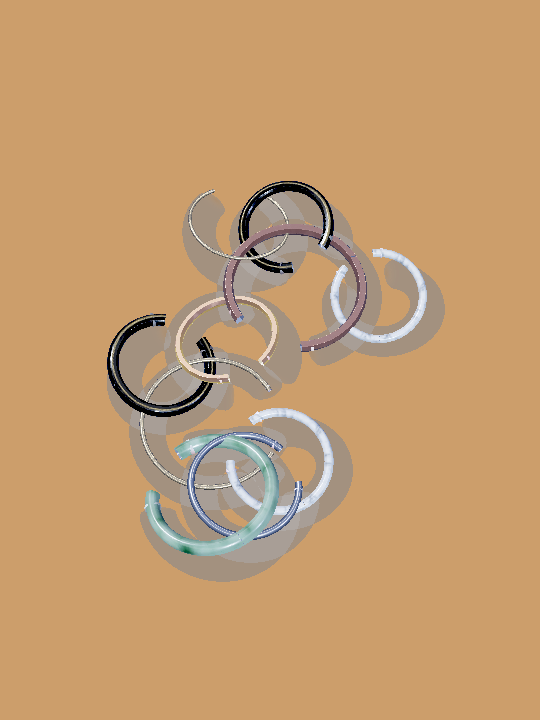
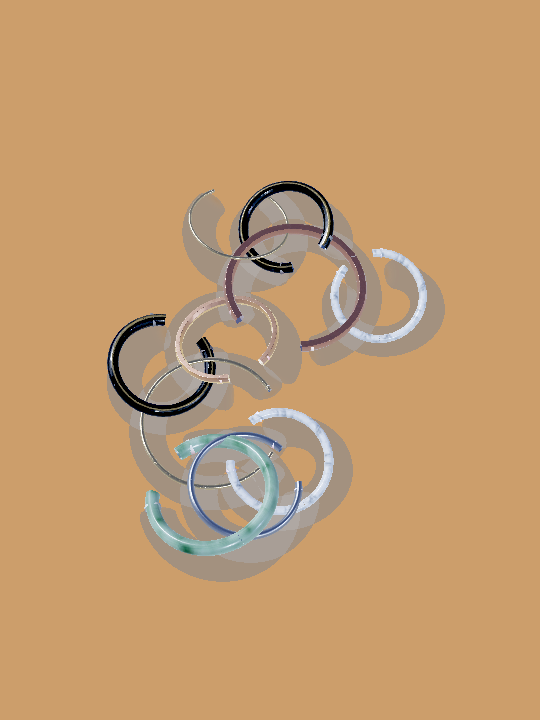
Image-based lighting for the rings: per-world prefiltered HDR environments (v1.1.5)
- make_env_maps.py: procedural HDR studio per world, GGX prefilter (6 levels) + irradiance, stacked equirect atlas
- GLBRING_FS: diffuse irradiance + prefiltered specular with split-sum BRDF; direct lights rebalanced
- renderer/packer/headless renderer load and bind the atlases

Claude-Session: https://claude.ai/code/session_01UVtWuVMRXKuxhqo9e5aBGr

diff --git a/app/src/main/java/com/shiostudios/dumplingrings/ui/board3d/Shaders.kt b/app/src/main/java/com/shiostudios/dumplingrings/ui/board3d/Shaders.kt
@@ -138,18 +138,21 @@ uniform float uCapRad;                            // dome length in radians: gap
 out vec4 fragColor;
 float ggx(vec3 n, vec3 h, float a) { float a2 = a * a; float ndh = max(dot(n, h), 0.0); float d = ndh * ndh * (a2 - 1.0) + 1.0; return a2 / (3.14159 * d * d + 1e-5); }
 float geo(float ndv, float ndl, float a) { float k = (a + 1.0) * (a + 1.0) / 8.0; return (ndv / (ndv * (1.0 - k) + k)) * (ndl / (ndl * (1.0 - k) + k)); }
-vec3 env(vec3 d, float rough) {
-  // studio environment: warm sky/ground gradient, a soft window reflection band and the key light as a bright blob
-  float up = d.z * 0.5 + 0.5;
-  vec3 e = mix(uAmbientGround * 1.4, uAmbientSky * 1.6, up);
-  // softbox window: a sharp bright band for lustre on polished surfaces, broad on rough ones
-  float band = smoothstep(0.42, 0.52, d.z) * (1.0 - smoothstep(0.66, 0.80, d.z));
-  e += band * vec3(1.0, 0.98, 0.95) * mix(1.6, 0.4, rough);
-  float sun = pow(max(dot(d, normalize(uKeyDir)), 0.0), mix(90.0, 8.0, rough));
-  e += sun * uKeyCol * 1.8;
-  float rimGlow = pow(max(dot(d, normalize(uRimDir)), 0.0), mix(40.0, 6.0, rough));
-  e += rimGlow * uRimCol * 0.9;
-  return e;
+// --- image-based lighting: per-world HDR studio environment, GGX-prefiltered at 6 roughness levels + cosine irradiance (row 6),
+// stacked equirect atlas (7 rows), gamma range encoding hdr = (tex ^ 2.4) * 16  (tools/asset_generate/make_env_maps.py)
+uniform sampler2D uEnv;
+vec2 equirect(vec3 d) { return vec2(atan(d.y, d.x) / 6.2831853 + 0.5, acos(clamp(d.z, -1.0, 1.0)) / 3.14159265); }
+vec3 envRow(vec2 uv, float row) { uv.y = (clamp(uv.y, 0.004, 0.996) + row) / 7.0; return pow(texture(uEnv, uv).rgb, vec3(2.4)) * 16.0; }
+vec3 envSpecular(vec3 d, float rough) {
+  float lv = clamp(rough, 0.0, 1.0) * 5.0; float l0 = floor(lv); float l1 = min(l0 + 1.0, 5.0);
+  vec2 uv = equirect(d); return mix(envRow(uv, l0), envRow(uv, l1), lv - l0);
+}
+vec3 envIrradiance(vec3 n) { return envRow(equirect(n), 6.0); }
+// split-sum environment BRDF (Karis' analytic fit): returns F0 * x + y
+vec2 envBrdf(float rough, float ndv) {
+  vec4 c0 = vec4(-1.0, -0.0275, -0.572, 0.022); vec4 c1 = vec4(1.0, 0.0425, 1.04, -0.04);
+  vec4 rr = rough * c0 + c1; float a004 = min(rr.x * rr.x, exp2(-9.28 * ndv)) * rr.x + rr.y;
+  return vec2(-1.04, 1.04) * a004 + rr.zw;
 }
 void main() {
   // gap cut (local angle): fragment inside any gap, widened by the dome length, is discarded (the domed caps cover the edges)
@@ -176,7 +179,8 @@ void main() {
   vec3 F0 = mix(vec3(0.04), albedo, metal);
   vec3 diffCol = albedo * (1.0 - metal);
   float a = rough * rough;
-  vec3 col = diffCol * mix(uAmbientGround, uAmbientSky, n.z * 0.5 + 0.5) * 0.35;
+  // diffuse from the irradiance map (what Uncharted-style artefact viewers do), specular from the prefiltered environment
+  vec3 col = diffCol * envIrradiance(n) * 0.9;
   vec3 lights[3]; vec3 lcols[3]; lights[0] = uKeyDir; lcols[0] = uKeyCol; lights[1] = uFillDir; lcols[1] = uFillCol; lights[2] = uRimDir; lcols[2] = uRimCol;
   for (int i = 0; i < 3; i++) {
     vec3 l = normalize(lights[i]); float ndl = max(dot(n, l), 0.0); vec3 h = normalize(l + v);
@@ -184,12 +188,12 @@ void main() {
     vec3 spec = ggx(n, h, a) * geo(ndv, ndl, a) * F / (4.0 * ndv * ndl + 1e-4);
     // clear-coat lobe: a tight second highlight that reads as polish/lacquer
     float cc = ggx(n, h, 0.05) * geo(ndv, ndl, 0.05) * (0.04 + 0.96 * pow(1.0 - max(dot(h, v), 0.0), 5.0)) / (4.0 * ndv * ndl + 1e-4);
-    col += (diffCol / 3.14159 + spec + cc * 0.6) * ndl * lcols[i] * 2.4;
+    col += (diffCol / 3.14159 + spec + cc * 0.6) * ndl * lcols[i] * 1.3;   // direct key/fill/rim on top of the environment
   }
   // environment reflection (the premium look of metal/stone/lacquer)
   vec3 r = reflect(-v, n);
-  vec3 Fenv = F0 + (max(vec3(1.0 - rough), F0) - F0) * pow(1.0 - ndv, 5.0);
-  col += env(r, rough) * Fenv * mix(0.9, 0.35, rough);
+  vec2 ab = envBrdf(rough, ndv);
+  col += envSpecular(r, rough) * (F0 * ab.x + ab.y);
   if (uStripeOn > 0.5) { float band = smoothstep(0.17, 0.21, fract(vUv.y)) * (1.0 - smoothstep(0.29, 0.33, fract(vUv.y))); col = mix(col, uStripe * 1.15, band * 0.0); }
   col = mix(col, col * 0.45, uDarken);
   // selection / ghost glow as a warm rim light (reads on black onyx as well as on gold)

diff --git a/app/src/main/java/com/shiostudios/dumplingrings/ui/board3d/Board3DRenderer.kt b/app/src/main/java/com/shiostudios/dumplingrings/ui/board3d/Board3DRenderer.kt
@@ -44,6 +44,7 @@ class Board3DRenderer(private val context: Context, private val level: LevelDefi
     private val meshes = ArrayList<TorusMesh>()
     private val vbos = IntArray(level.rings.size); private val ibos = IntArray(level.rings.size)
     private val textures = HashMap<String, Int>()
+    private val envTex = IntArray(4)   // index = world (1..3): prefiltered HDR environment atlas
     private val props = HashMap<String, GlProp>()
     private var quadVbo = 0
     private val centers = Array(level.rings.size) { FloatArray(2) }
@@ -79,6 +80,7 @@ class Board3DRenderer(private val context: Context, private val level: LevelDefi
         quadProg = program(Shaders.QUAD_VS, Shaders.QUAD_FS)
         glbRingProg = program(Shaders.GLBRING_VS, Shaders.GLBRING_FS)
         meshes.clear(); capMeshes.clear(); ringModels.clear()
+        for (w in 1..3) envTex[w] = try { context.assets.open("env/world${w}_env.png").use { st -> BitmapFactory.decodeStream(st)?.let { envTexture(it) } ?: 0 } } catch (e: Exception) { Log.w("Board3D", "env map $w: ${e.message}"); 0 }
         // rings are ALWAYS the Meshy premium meshes, drawn uniformly scaled (the model's own tube thickness); an unknown/missing asset falls back to the silver Meshy ring
         for (mat in level.rings.map { materialOverride ?: it.materialId }.toSet()) ringModels[mat] = loadRingModel(ringAsset(mat)) ?: loadRingModel("ring_silver")
         for ((i, r) in level.rings.withIndex()) {
@@ -285,6 +287,7 @@ class Board3DRenderer(private val context: Context, private val level: LevelDefi
         GLES30.glActiveTexture(GLES30.GL_TEXTURE0); GLES30.glBindTexture(GLES30.GL_TEXTURE_2D, model.base); GLES30.glUniform1i(u(prog, "uAlbedo"), 0)
         GLES30.glActiveTexture(GLES30.GL_TEXTURE1); GLES30.glBindTexture(GLES30.GL_TEXTURE_2D, if (model.mr != 0) model.mr else whiteTex); GLES30.glUniform1i(u(prog, "uMetalRough"), 1)
         GLES30.glActiveTexture(GLES30.GL_TEXTURE2); GLES30.glBindTexture(GLES30.GL_TEXTURE_2D, if (model.nrm != 0) model.nrm else whiteTex); GLES30.glUniform1i(u(prog, "uNormalMap"), 2)
+        GLES30.glActiveTexture(GLES30.GL_TEXTURE3); GLES30.glBindTexture(GLES30.GL_TEXTURE_2D, envTex[s.world.coerceIn(1, 3)].takeIf { it != 0 } ?: whiteTex); GLES30.glUniform1i(u(prog, "uEnv"), 3)
         GLES30.glUniform1f(u(prog, "uHasMR"), if (model.mr != 0) 1f else 0f); GLES30.glUniform1f(u(prog, "uHasNormal"), if (model.nrm != 0) 1f else 0f)
         GLES30.glUniform1f(u(prog, "uMetalFactor"), model.metal); GLES30.glUniform1f(u(prog, "uRoughFactor"), model.rough)
         val pulse = 0.5f + 0.5f * sin(s.timeMs / 320.0).toFloat()
@@ -439,6 +442,16 @@ class Board3DRenderer(private val context: Context, private val level: LevelDefi
 
     private fun loadTexture(path: String) {
         try { context.assets.open(path).use { s -> BitmapFactory.decodeStream(s)?.let { textures[path] = texture(it, repeat = true) } } } catch (e: Exception) { Log.w("Board3D", "texture $path: ${e.message}") }
+    }
+
+    /** Environment atlas: linear filtering without mipmaps (rows must not bleed), wraps in longitude only. */
+    private fun envTexture(bmp: Bitmap): Int {
+        val ids = IntArray(1); GLES30.glGenTextures(1, ids, 0)
+        GLES30.glBindTexture(GLES30.GL_TEXTURE_2D, ids[0])
+        GLUtils.texImage2D(GLES30.GL_TEXTURE_2D, 0, bmp, 0)
+        GLES30.glTexParameteri(GLES30.GL_TEXTURE_2D, GLES30.GL_TEXTURE_MIN_FILTER, GLES30.GL_LINEAR); GLES30.glTexParameteri(GLES30.GL_TEXTURE_2D, GLES30.GL_TEXTURE_MAG_FILTER, GLES30.GL_LINEAR)
+        GLES30.glTexParameteri(GLES30.GL_TEXTURE_2D, GLES30.GL_TEXTURE_WRAP_S, GLES30.GL_REPEAT); GLES30.glTexParameteri(GLES30.GL_TEXTURE_2D, GLES30.GL_TEXTURE_WRAP_T, GLES30.GL_CLAMP_TO_EDGE)
+        return ids[0]
     }
 
     private fun texture(bmp: Bitmap, repeat: Boolean = false): Int {

diff --git a/tools/asset_generate/make_env_maps.py b/tools/asset_generate/make_env_maps.py
@@ -1,0 +1,103 @@
+#!/usr/bin/env python3
+"""Image-based lighting for the 3D board: one HDR studio environment per world, GGX-prefiltered for 6 roughness levels
+plus a cosine irradiance map, packed as a stacked equirect atlas (256x128 per level, 7 levels) with a gamma range encoding
+(rgb = (hdr / 16) ^ (1/2.4)) so GLES 3.0 can sample it as a plain RGB texture. Output: assets/generated/env/world{w}_env.png
+Mapping (matches Shaders.GLBRING_FS): u = atan2(d.y, d.x) / 2pi + 0.5, v = acos(d.z) / pi (z up, v=0 is the zenith).
+"""
+import numpy as np, os, sys
+from PIL import Image
+ROOT = os.path.dirname(os.path.dirname(os.path.dirname(os.path.abspath(__file__))))
+W, H = 256, 128
+LEVELS = [0.0, 0.2, 0.4, 0.6, 0.8, 1.0]
+RANGE, GAMMA = 16.0, 2.4
+
+def dirs(w, h):
+    u = (np.arange(w) + 0.5) / w; v = (np.arange(h) + 0.5) / h
+    phi = (u - 0.5) * 2 * np.pi; theta = v * np.pi
+    P, T = np.meshgrid(phi, theta)
+    return np.stack([np.sin(T) * np.cos(P), np.sin(T) * np.sin(P), np.cos(T)], -1)
+
+def disc(d, center, radius_deg, col, soft=1.0):
+    c = np.array(center, float); c /= np.linalg.norm(c)
+    cosang = np.clip((d * c).sum(-1), -1, 1); ang = np.degrees(np.arccos(cosang))
+    w = 1 - np.clip((ang - radius_deg) / (radius_deg * soft + 1e-3), 0, 1)
+    return w[..., None] * np.array(col, float)
+
+def window(d, az_deg, el_deg, w_deg, h_deg, col):
+    az = np.degrees(np.arctan2(d[..., 1], d[..., 0])); el = np.degrees(np.arcsin(np.clip(d[..., 2], -1, 1)))
+    da = (az - az_deg + 180) % 360 - 180; de = el - el_deg
+    m = (1 - np.clip((np.abs(da) - w_deg / 2) / 4, 0, 1)) * (1 - np.clip((np.abs(de) - h_deg / 2) / 3, 0, 1))
+    return m[..., None] * np.array(col, float)
+
+def environment(world, d):
+    up = np.clip(d[..., 2], -1, 1)[..., None]
+    if world == 1:   # teahouse morning: cream sky, warm haze, wooden floor, big soft shoji window + sun
+        sky = np.array([1.05, 1.0, 0.92]) * 1.1; hz = np.array([0.95, 0.78, 0.55]); gnd = np.array([0.32, 0.2, 0.1])
+        e = np.where(up > 0, hz + (sky - hz) * up ** 0.6, gnd + (hz - gnd) * np.clip(1 + up, 0, 2) ** 3)
+        e = e + window(d, 150, 28, 70, 40, [4.5, 4.2, 3.6]) + window(d, -40, 20, 40, 25, [1.4, 1.5, 1.7])
+        e = e + disc(d, [-0.55, 0.30, 0.70], 2.5, [60, 52, 40], 1.5)
+    elif world == 2: # night market: deep blue night, warm paper lanterns all around, red neon band, dark stone floor
+        sky = np.array([0.04, 0.05, 0.14]); hz = np.array([0.18, 0.09, 0.08]); gnd = np.array([0.08, 0.05, 0.03])
+        e = np.where(up > 0, hz + (sky - hz) * up ** 0.5, gnd + (hz - gnd) * np.clip(1 + up, 0, 2) ** 3)
+        for az, el, s in [(150, 24, 1.0), (60, 30, 0.7), (-110, 18, 0.8), (-30, 35, 0.5), (100, 10, 0.6), (-160, 28, 0.6)]:
+            e = e + disc(d, [np.cos(np.radians(az)) * np.cos(np.radians(el)), np.sin(np.radians(az)) * np.cos(np.radians(el)), np.sin(np.radians(el))], 4.0, np.array([28, 15, 5]) * s, 1.2)
+        e = e + window(d, 0, 12, 360, 6, [1.6, 0.25, 0.3]) * 0.6
+        e = e + disc(d, [-0.50, 0.25, 0.65], 3.0, [45, 24, 9], 1.5)
+    else:            # mountain moon: cool sky, moon, snow ground bounce, cold rim window
+        sky = np.array([0.10, 0.14, 0.30]); hz = np.array([0.26, 0.32, 0.5]); gnd = np.array([0.38, 0.42, 0.52])
+        e = np.where(up > 0, hz + (sky - hz) * up ** 0.7, gnd + (hz - gnd) * np.clip(1 + up, 0, 2) ** 2)
+        e = e + disc(d, [-0.55, 0.30, 0.65], 2.0, [55, 62, 80], 1.5) + window(d, 150, 25, 60, 30, [2.0, 2.4, 3.2]) + window(d, -30, 15, 50, 20, [0.9, 1.1, 1.5])
+    return np.clip(e, 0, RANGE)
+
+def sample(env, d):
+    h, w, _ = env.shape
+    u = (np.arctan2(d[..., 1], d[..., 0]) / (2 * np.pi) + 0.5) % 1.0; v = np.arccos(np.clip(d[..., 2], -1, 1)) / np.pi
+    x = np.clip((u * w).astype(int), 0, w - 1); y = np.clip((v * h).astype(int), 0, h - 1)
+    return env[y, x]
+
+def prefilter(env, rough, n_samples=256, seed=1):
+    """split-sum specular prefilter, N = V = R, GGX importance sampling (Karis 2013)."""
+    if rough < 1e-3: return env.copy()
+    a = rough * rough; N = dirs(W, H); rng = np.random.default_rng(seed)
+    out = np.zeros_like(env); wsum = np.zeros(env.shape[:2] + (1,))
+    # tangent frame
+    upv = np.where(np.abs(N[..., 2:3]) < 0.999, np.array([0, 0, 1.0]), np.array([1.0, 0, 0]))
+    T = np.cross(upv, N); T /= np.linalg.norm(T, axis=-1, keepdims=True); B = np.cross(N, T)
+    src = env
+    # pre-blur the source for rough levels to kill fireflies
+    if rough >= 0.4:
+        k = int(rough * 6)
+        im = Image.fromarray(np.clip(env / RANGE * 255, 0, 255).astype(np.uint8))
+        src = env
+    for i in range(n_samples):
+        e1, e2 = rng.random(), rng.random()
+        phi = 2 * np.pi * e1; cos_t = np.sqrt((1 - e2) / (1 + (a * a - 1) * e2)); sin_t = np.sqrt(1 - cos_t * cos_t)
+        Hh = T * (sin_t * np.cos(phi)) + B * (sin_t * np.sin(phi)) + N * cos_t
+        L = 2 * (N * Hh).sum(-1, keepdims=True) * Hh - N
+        nol = np.clip((N * L).sum(-1, keepdims=True), 0, 1)
+        out += sample(src, L) * nol; wsum += nol
+    return out / np.maximum(wsum, 1e-4)
+
+def irradiance(env, n_samples=1024, seed=2):
+    N = dirs(W, H); rng = np.random.default_rng(seed)
+    upv = np.where(np.abs(N[..., 2:3]) < 0.999, np.array([0, 0, 1.0]), np.array([1.0, 0, 0]))
+    T = np.cross(upv, N); T /= np.linalg.norm(T, axis=-1, keepdims=True); B = np.cross(N, T)
+    out = np.zeros_like(env)
+    for i in range(n_samples):
+        e1, e2 = rng.random(), rng.random()
+        phi = 2 * np.pi * e1; cos_t = np.sqrt(1 - e2); sin_t = np.sqrt(e2)   # cosine-weighted
+        L = T * (sin_t * np.cos(phi)) + B * (sin_t * np.sin(phi)) + N * cos_t
+        out += sample(env, L)
+    return out / n_samples
+
+def encode(hdr):
+    return (np.clip(hdr / RANGE, 0, 1) ** (1 / GAMMA) * 255 + 0.5).astype(np.uint8)
+
+if __name__ == "__main__":
+    worlds = [int(a) for a in sys.argv[1:]] or [1, 2, 3]
+    for w in worlds:
+        env = environment(w, dirs(W, H))
+        rows = [encode(prefilter(env, r)) for r in LEVELS] + [encode(irradiance(env))]
+        atlas = np.concatenate(rows, 0)
+        out = os.path.join(ROOT, "assets/generated/env", f"world{w}_env.png"); os.makedirs(os.path.dirname(out), exist_ok=True)
+        Image.fromarray(atlas).save(out); print("wrote", out, atlas.shape)

diff --git a/tools/level_preview/render_gles.py b/tools/level_preview/render_gles.py
@@ -224,7 +224,7 @@ def main():
         glEnableVertexAttribArray(1); glVertexAttribPointer(1, 2, GL_FLOAT, False, 36, ctypes.c_void_p(12))
         glEnableVertexAttribArray(2); glVertexAttribPointer(2, 3, GL_FLOAT, False, 36, ctypes.c_void_p(20))
         placement(p, r); glUniform1f(u("uMinor"), r["radius"] * k * tr); set_lights(p)   # uniform scale of the Meshy model
-        for unit, (name, t) in enumerate([("uAlbedo", glb["base"]), ("uMetalRough", glb["mr"]), ("uNormalMap", glb["nm"])]):
+        for unit, (name, t) in enumerate([("uAlbedo", glb["base"]), ("uMetalRough", glb["mr"]), ("uNormalMap", glb["nm"]), ("uEnv", envT)]):
             glActiveTexture(GL_TEXTURE0 + unit); glBindTexture(GL_TEXTURE_2D, t); glUniform1i(u(name), unit)
         glUniform1f(u("uHasMR"), 1.0 if glb["mr"] else 0.0); glUniform1f(u("uHasNormal"), 1.0 if glb["nm"] else 0.0)
         glUniform1f(u("uMetalFactor"), glb["mf"]); glUniform1f(u("uRoughFactor"), glb["rf"])
@@ -264,6 +264,12 @@ def main():
         nx, ny = -a, -b; l = math.sqrt(nx * nx + ny * ny + 1.0); x, y, z = nx / l, ny / l, 1.0 / l; kk = 1.0 / (1.0 + z)
         m = np.array([[1 - x * x * kk, -x * y * kk, x], [-x * y * kk, 1 - y * y * kk, y], [-x, -y, z]], np.float32)   # GL row-major view
         glUniformMatrix3fv(u("uTilt"), 1, True, m); glUniform1f(u("uZ0"), mn * 1.02 + 0.55 * math.hypot(a, b) * R)
+    envp = os.path.join(ROOT, "assets/generated/env", f"world{world}_env.png"); envT = 0
+    if os.path.exists(envp):
+        im = Image.open(envp).convert("RGB"); envT = glGenTextures(1); glBindTexture(GL_TEXTURE_2D, envT)
+        glTexImage2D(GL_TEXTURE_2D, 0, GL_RGB, im.width, im.height, 0, GL_RGB, GL_UNSIGNED_BYTE, np.array(im, np.uint8).tobytes())
+        glTexParameteri(GL_TEXTURE_2D, GL_TEXTURE_MIN_FILTER, GL_LINEAR); glTexParameteri(GL_TEXTURE_2D, GL_TEXTURE_MAG_FILTER, GL_LINEAR)
+        glTexParameteri(GL_TEXTURE_2D, GL_TEXTURE_WRAP_S, GL_REPEAT); glTexParameteri(GL_TEXTURE_2D, GL_TEXTURE_WRAP_T, GL_CLAMP_TO_EDGE)
     white = glGenTextures(1); glBindTexture(GL_TEXTURE_2D, white); glTexImage2D(GL_TEXTURE_2D, 0, GL_RGB, 2, 2, 0, GL_RGB, GL_UNSIGNED_BYTE, bytes([255] * 12)); glTexParameteri(GL_TEXTURE_2D, GL_TEXTURE_MIN_FILTER, GL_LINEAR)
     def draw_ring(p, i, r, shadow, sel=False):
         v, ix = meshes[i]

diff --git a/tools/asset_import/pack_runtime_assets.py b/tools/asset_import/pack_runtime_assets.py
@@ -133,6 +133,11 @@ if os.path.isdir(D3):
             thumb = os.path.join(d, "thumbnail.png")
             if os.path.exists(thumb): webp(thumb, f"3d/rings/{name}_thumb.webp", 256, 256, 86, note="ring theme thumbnail (Meshy)")
 
+# --- image-based lighting atlases (tools/asset_generate/make_env_maps.py)
+for w in (1, 2, 3):
+    src = f"{G}/env/world{w}_env.png"
+    if os.path.exists(src): copy(src, f"env/world{w}_env.png", "prefiltered HDR environment atlas for the 3D board", world=w)
+
 # --- audio
 A = os.path.join(ROOT, "assets/audio")
 for sub in ("music", "sfx", "ambience"):

diff --git a/docs/ARCHITECTURE.md b/docs/ARCHITECTURE.md
@@ -44,8 +44,8 @@ plus the screens. Content JSON, audio and art are shared as-is.
 `app/ui/board3d/`: `BoardCamera` (shared perspective camera, project/unproject for overlay + touch), `GlbLoader` (minimal GLB
 reader incl. PBR textures), `RingModel` (normalises any Meshy torus into tube space: angle, radial/height offset in tube radii,
 UV, local normal — so one model dresses every level ring), `TorusMesh` (procedural arcs used only for the projected shadow and the
-domed end caps that close the cut ring), `Shaders` (GLSL ES 3.00: `GLBRING` vertex shader places the model rigidly (uniform scale to the level radius, rotation, a rigid lean per ring derived from its crossings' over/under); in-shader gap cut; PBR metallic-roughness with normal map, studio environment
-reflection, key/fill/rim lights, rim-light selection glow, colour-gate stripe), `Board3DRenderer` (GLSurfaceView renderer: glow
+domed end caps that close the cut ring), `Shaders` (GLSL ES 3.00: `GLBRING` vertex shader places the model rigidly (uniform scale to the level radius, rotation, a rigid lean per ring derived from its crossings' over/under); in-shader gap cut; PBR metallic-roughness with normal map, image-based lighting from a per-world prefiltered HDR
+environment atlas (`assets/generated/env`, split-sum BRDF), key/fill/rim lights, rim-light selection glow, colour-gate stripe), `Board3DRenderer` (GLSurfaceView renderer: glow
 discs, projected soft shadows, Meshy rings only — a missing asset falls back to the silver Meshy ring — procedural capsule
 obstacles, dumpling pop), `Board3D` (Compose host + touch via the camera), `BoardOverlay` (2D decorations/FX at projected
 positions). `app/ui/fx/Particles.kt` adds the living background (Ken-Burns drift, breathing light pool, world particles,

diff --git a/docs/RELEASE_NOTES.md b/docs/RELEASE_NOTES.md
@@ -1,3 +1,8 @@
+## Dumpling Rings 1.1.5 — image-based lighting (artefact-viewer quality)
+
+- Each world has an HDR studio environment (shoji window and sun; paper lanterns and neon; moon and snow bounce), GGX-prefiltered at six roughness levels plus a cosine irradiance map (`tools/asset_generate/make_env_maps.py`)
+- Rings are shaded with real image-based lighting: diffuse from irradiance, specular from the prefiltered environment through the split-sum BRDF, on top of the three direct lights. Metals mirror the room, lacquer and stone pick up soft window light, exactly as in a game's inspect-the-treasure view
+
 ## Dumpling Rings 1.1.4 — rings are rigid Meshy models
 
 - No more per-vertex bending: every ring is the Meshy GLB placed as a rigid body (position, uniform scale, rotation) and therefore perfectly round
